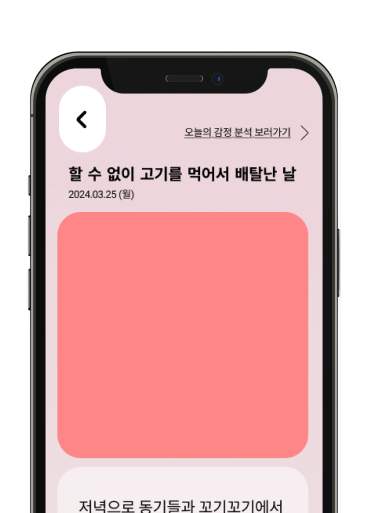
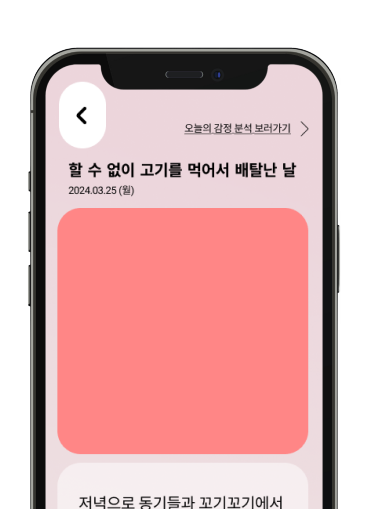
style: px에서 rem으로 단위 수정

diff --git a/src/components/OnBoardingSteps/Step1/Step1.jsx b/src/components/OnBoardingSteps/Step1/Step1.jsx
@@ -4,13 +4,11 @@ import * as S from "../Step.style"
 import Title from "../title/Title";
 import SubTitle from "../title/SubTitle";
 import onBoardingStep1Img from '../../../assets/onBoardingStep1.png'
-//온보딩 최적화 부분이 조금 어려운 것 같아요...
-//여기서 현재 상태랑 전체 배열도 넘겨줘야 된다 생각하는데
-//지저분할 것 같고, 또 그렇다면 내부 구현 변수는 어떻게 처리하는지,,,ㅠㅠ
+
 export default function Step1(props){
     return (
         <S.OnBoardingStepWrapper>
-            
+
             <S.OnBoardingHeader>
                 <OnBoardingProgressbar cur='Step1'/>
                 <S.BtnWrapper onClick={()=>{props.onNxt()}}>

diff --git a/src/components/OnBoardingSteps/SetWriitingStyle/SetWritingStyle.jsx b/src/components/OnBoardingSteps/SetWriitingStyle/SetWritingStyle.jsx
@@ -4,14 +4,8 @@ import BtnSetFast from '../../common/buttons/SetFastButton/BtnSetFast'
 import BtnSetSlow from '../../common/buttons/SetSlowButton/BtnSetSlow'
 
 const handleSetWritingStyle= ()=>{
-    //선호하는 스타일 전달
-    //axios post 이용하면 되겠져>>?? instance 파둬야겠네.////.......
-    //이건 ai로 보내나요 백으로 보내나요? 
     console.log('api 요청하세요')
 }
-
-//이 부분은 BtnWrapper 사용하지 않아도 될 것 같았는데, 일단 손에 익힐 겸 사용해 봤습니다.!
-//아무래도 알려준 방법이 더 많이 사용될 것 같기 때문에...!
 
 export default function SetWritingStyle(){
     const [type, setType] = useState();

diff --git a/src/components/OnBoardingSteps/title/Title.style.js b/src/components/OnBoardingSteps/title/Title.style.js
@@ -2,8 +2,8 @@ import styled from "styled-components";
 
 export const TitleWrapper = styled.p`
     ${({ theme }) => theme.fonts.title};
-    width: 308px;
-    letter-spacing: -0.408px;
+    width: 30.8rem;
+    letter-spacing: -0.0408rem;
 `
 
 export const SubTitleWrapper = styled.p`
@@ -11,12 +11,12 @@ export const SubTitleWrapper = styled.p`
     width: 100%;
     padding-left: 3.4rem;
     margin-top: 0.4rem;
-    letter-spacing: -0.408px;
+    letter-spacing: -0.0408rem;
 `
 
 export const CaptionWrapper = styled.li`
     ${({ theme }) => theme.fonts.caption_02};
     width: 100%;
     margin-left: 6rem;
-    letter-spacing: -0.408px;
+    letter-spacing: -0.0408rem;
 `

diff --git a/src/components/OnBoardingSteps/Step6/Step6.jsx b/src/components/OnBoardingSteps/Step6/Step6.jsx
@@ -21,7 +21,7 @@ export default function Step6(props){
             </SubTitle>
             
             <S.OnBoardingBody>
-                <HoneyBear width='375' height='496'/>
+                <HoneyBear width='37.5rem' height='49.6rem'/>
             </S.OnBoardingBody>
             
             <S.OnBoardingFooter>
